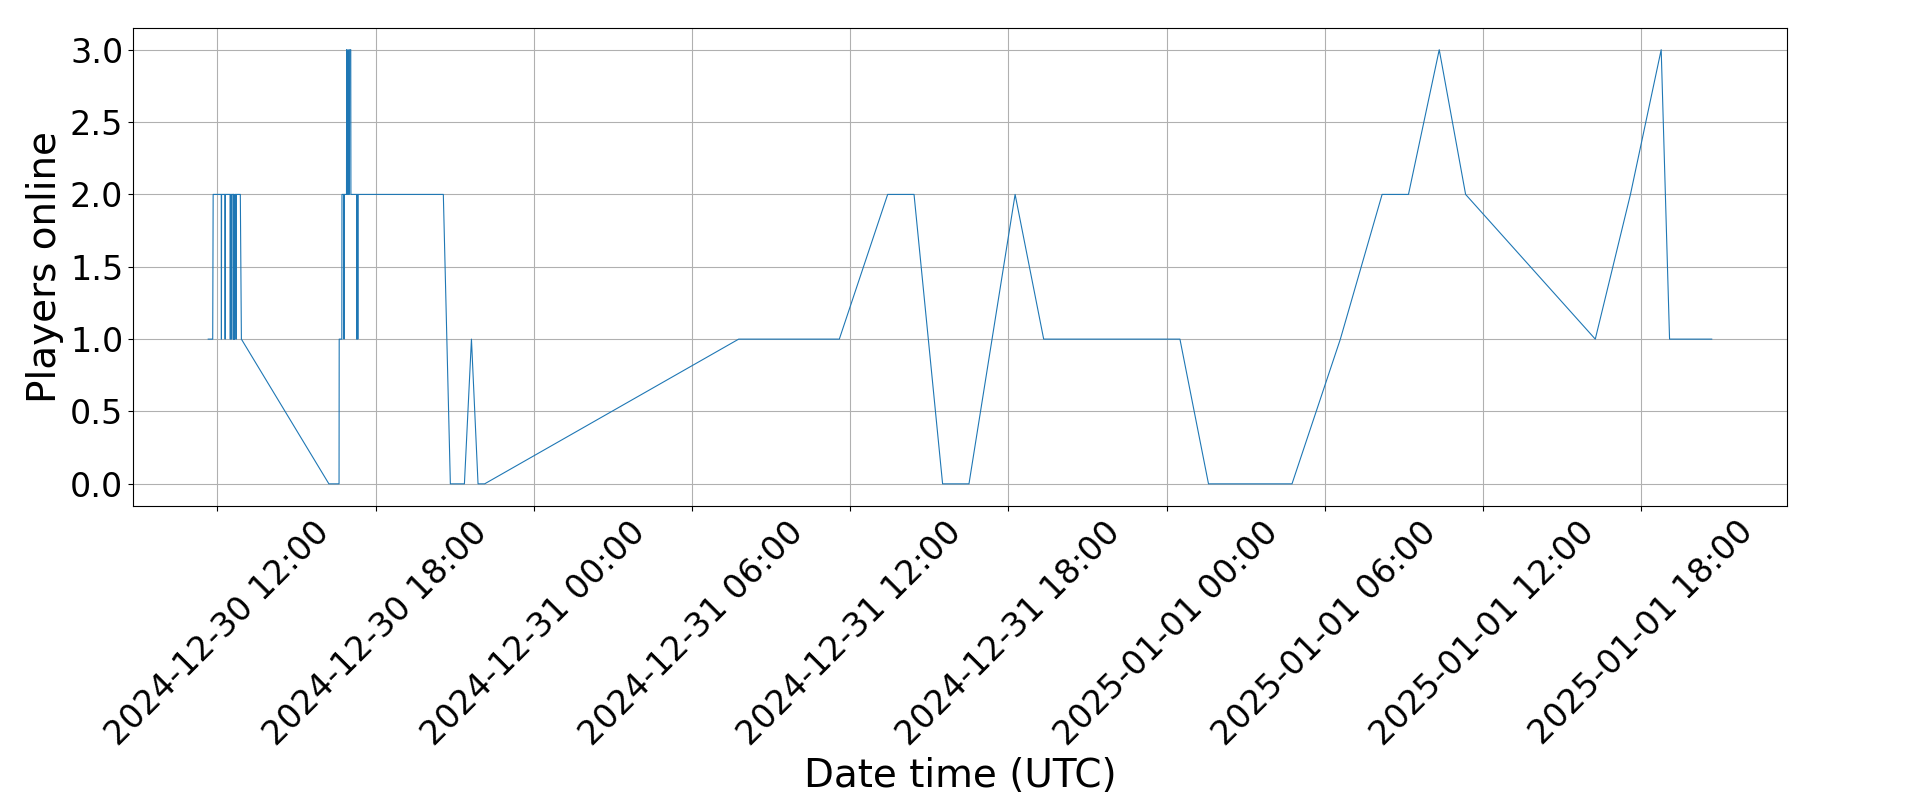
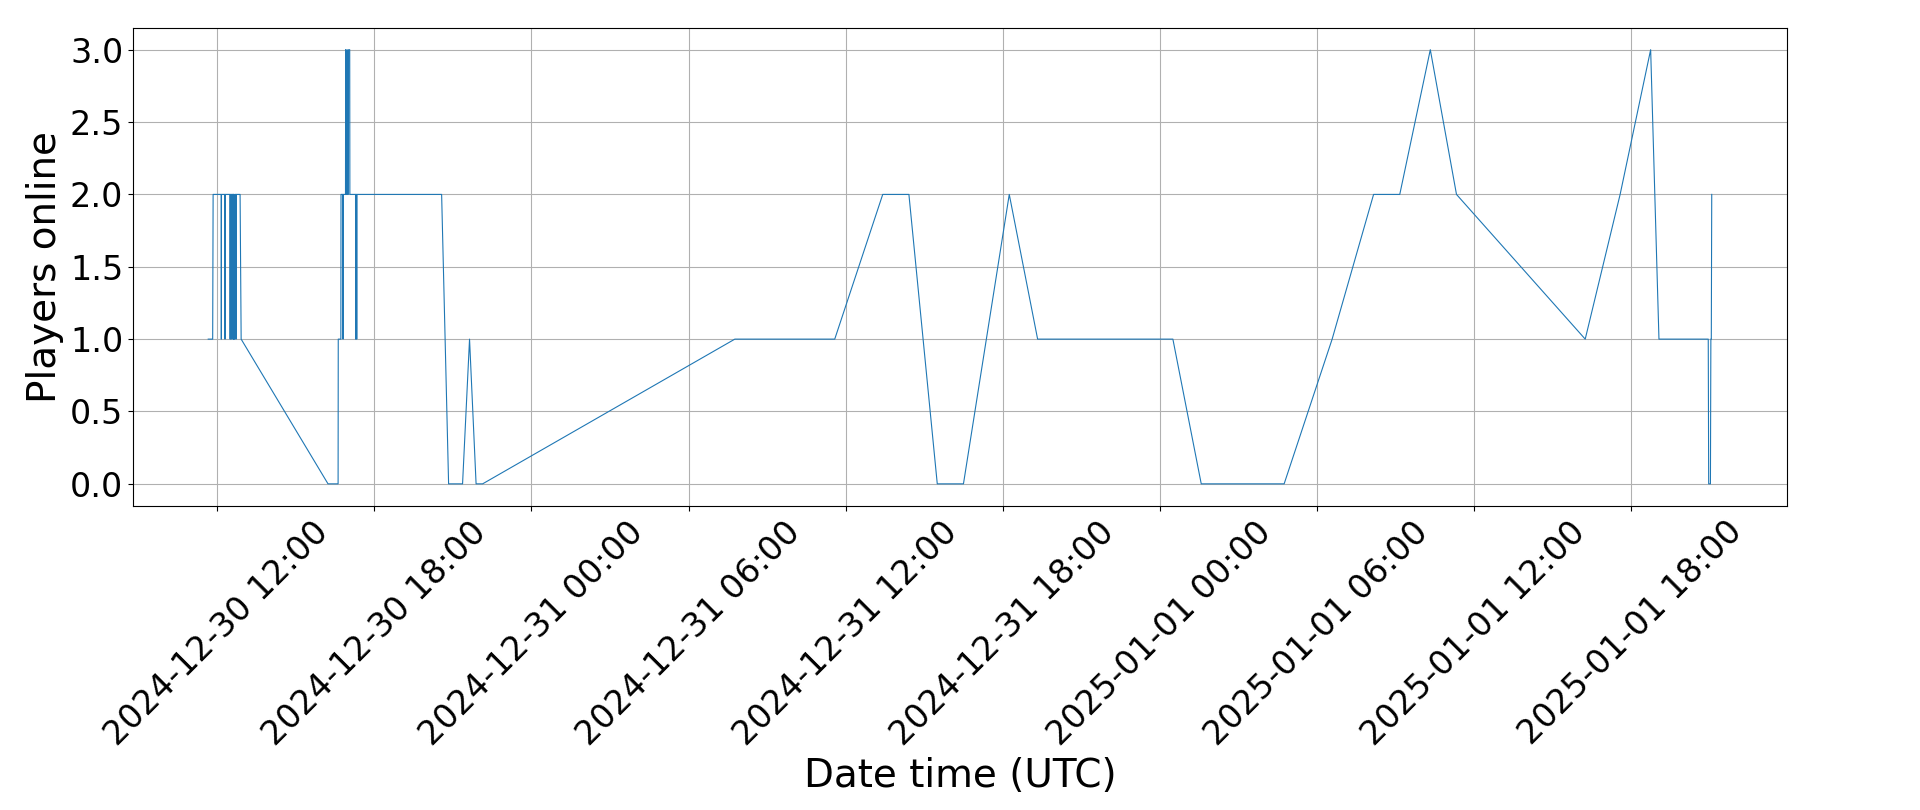
Fix

diff --git a/web/view/adminView.js b/web/view/adminView.js
@@ -125,6 +125,8 @@ export default {
                 name: '',
                 ip: '',
                 port: '',
+                updated: '',
+                players: 0,
                 _changed: true
             }
             this.moduleInfos = [tmp, ...this.moduleInfos]

diff --git a/server/job.py b/server/job.py
@@ -24,8 +24,8 @@ def update_module_presences():
             print(f"Can't parse response for {module_info}")
             continue
 
-        if count > 120:
-            print(f"There is nonsense presence {count} for {module_info.name}.")
+        if module_info.players > 2 and count - module_info.players > 40:
+            print(f"There is nonsense presence {count} while previous was {module_info.players} for {module_info.name}.")
             continue
 
         # Update Module info
@@ -93,22 +93,6 @@ def update_module_presences():
 @context.scheduler.task('interval', seconds=10)
 def reload_properties():
     service.reload_properties()
-
-
-@context.scheduler.task('cron', minute="*")
-def filter_nonsense_values():
-    print("Start filter nonsense values")
-    module_infos = repository.get_module_infos()
-    for module_info in module_infos:
-        presences = repository.get_module_presences(module_info_id=module_info.id)
-        for presence in presences:
-            if presence.players > 64:
-                session = context.scoped_factory()
-                print(f'Removing nonsense presence: {presence} for {module_info.name}')
-                repository.delete_module_presence([presence.id])
-                session.commit()
-
-
 
 
 
